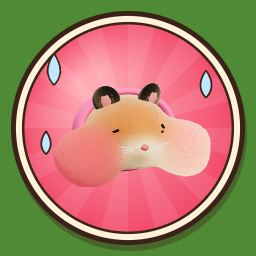
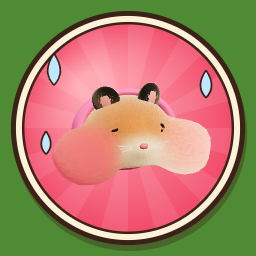
A limiter at the end of the sound chain; capture skip-ahead; store art re-rendered (cover without a stray hamster)

diff --git a/src/main.js b/src/main.js
@@ -1133,6 +1133,13 @@ export async function boot() {
           startSolo({ kind, n: Number(n) });
         } else if (kind === 'wardrobe') handlers.wardrobe();
         else startSolo({ kind });
+        // `skip=90` plays the first 90 s of the round unseen, to capture its later part.
+        const skip = Number(params.get('skip')) || 0;
+        if (S.solo && skip > 0) {
+          for (let i = 0; i < Math.round(skip * 60); i++) S.solo.step(1 / 60, () => myInput(S.solo.w, S.solo.mine));
+          S.solo.w.drain();
+          hud.clear();
+        }
       }
     }
     if (autoplay && S.screen === 'lobby' && now > 2400 && !S.net && params.get('stay') !== '1') startSolo({ kind: params.get('mode') === 'daily' ? 'daily' : 'quick' });

diff --git a/src/audio.js b/src/audio.js
@@ -30,7 +30,14 @@ export function createAudio() {
     const comp = ctx.createDynamicsCompressor();
     comp.threshold.value = -14;
     comp.ratio.value = 4;
-    master.connect(comp).connect(ctx.destination);
+    // A limiter last, so a pop, a fanfare and the music landing together never clip.
+    const limit = ctx.createDynamicsCompressor();
+    limit.threshold.value = -2;
+    limit.knee.value = 0;
+    limit.ratio.value = 20;
+    limit.attack.value = 0.001;
+    limit.release.value = 0.06;
+    master.connect(comp).connect(limit).connect(ctx.destination);
     sfx = ctx.createGain();
     sfx.gain.value = 0.85;
     sfx.connect(master);
